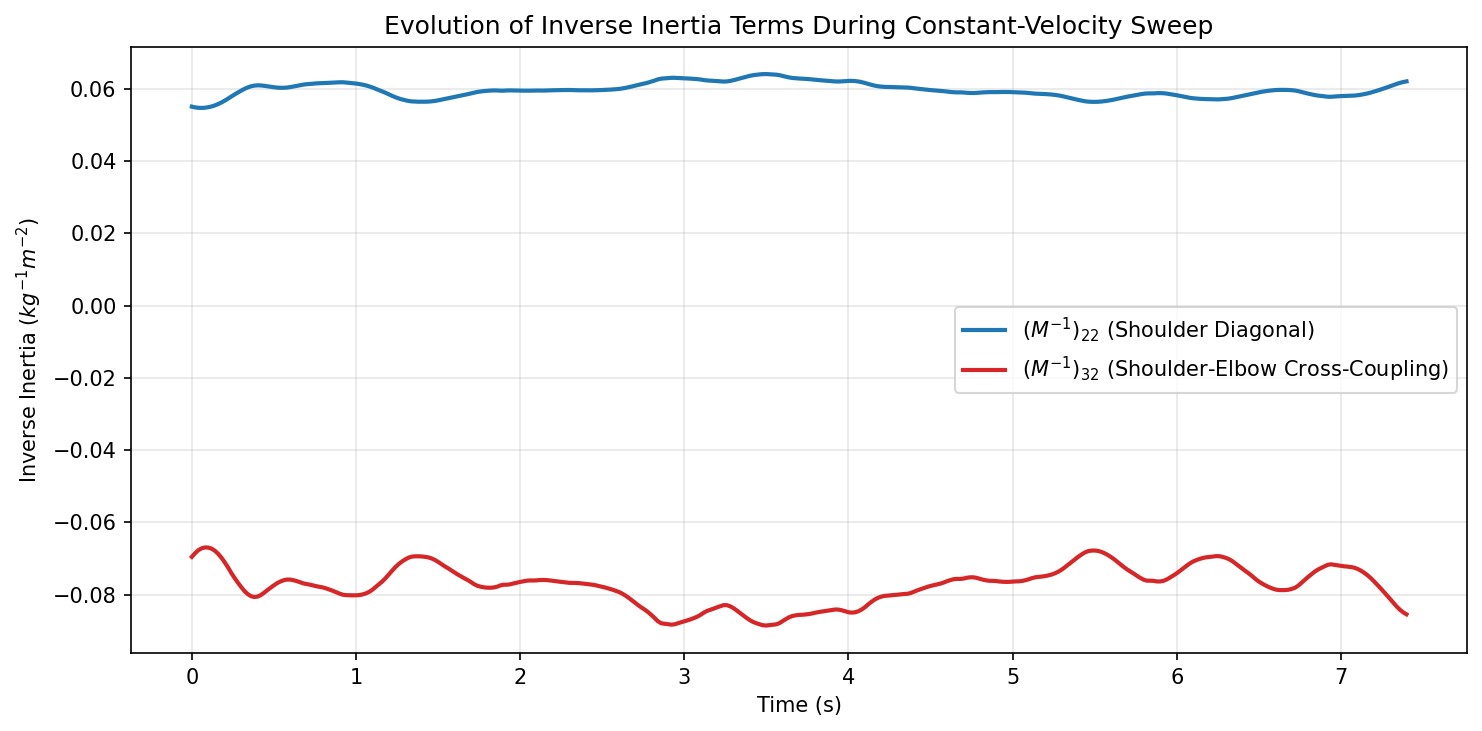
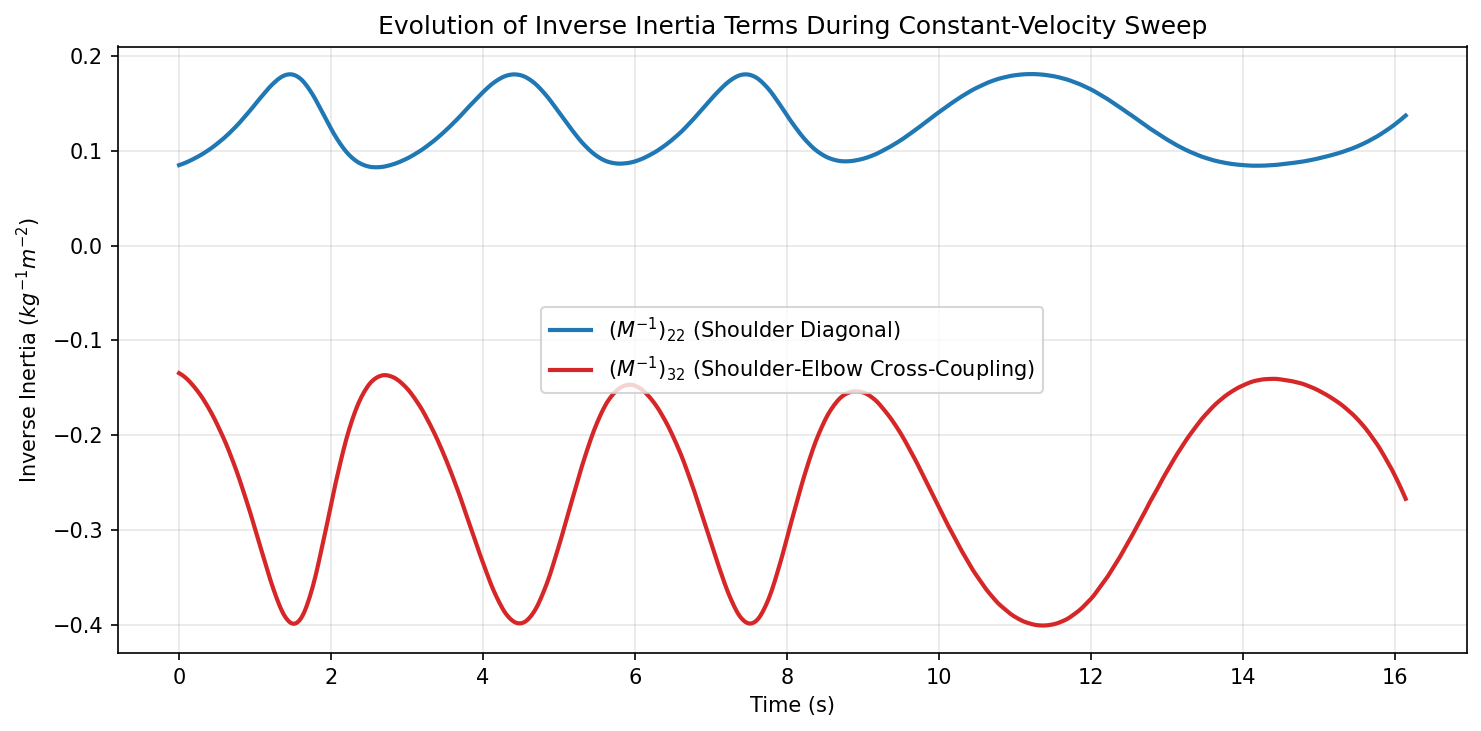
updated controller.py strcture

diff --git a/controller.py b/controller.py
@@ -7,83 +7,80 @@ class NMPCController:
         self.dt = dt
         self.N = horizon
         self.kin = KinematicsEngine()
+        
+        # Define the permanent optimization problem graph ONCE for maximum speed
         self.opti = ca.Opti()
-        # Initialize the optimization variables
+        
+        # Decision variables over the horizon
         self.X = self.opti.variable(8, self.N + 1)
         self.U = self.opti.variable(4, self.N)
         
-    def solve(self, q_curr, dq_curr, target_pos):
-        # Reset and clear previous constraints
-        X = self.opti.variable(8, self.N + 1)
-        U = self.opti.variable(4, self.N)
+        # Declare explicit PARAMETERS that update via numerical value-swapping
+        self.p_q_curr = self.opti.parameter(4)
+        self.p_dq_curr = self.opti.parameter(4)
+        self.p_target_pos = self.opti.parameter(3)
+        self.p_kstiff_est = self.opti.parameter()  # Scalar stiffness parameter
         
-        # FIX 1: Increase safe radius! 
-        # (0.05 EE radius + 0.04 Obstacle radius + 0.21 safety buffer)
-        safe_radius_sq = 0.3**2
-        
+        self._build_optimization_graph()
+
+    def _build_optimization_graph(self):
         cost = 0
-    
-
-          # WARM START: Provide a reasonable initial guess so the solver doesn't start at absolute zero!
-        self.opti.set_initial(X, ca.repmat(ca.vertcat(q_curr, dq_curr), 1, self.N + 1))
-    
-
+        q_home = ca.vertcat(0.0, 0.0, 0.0, 0.0)
         
-        q_home = ca.vertcat(0.0, 0,0,0)
-
-        current_ee_pos = self.kin.forward_kinematics_sym(q_curr)
-        dist_to_target = ca.norm_2(current_ee_pos - target_pos)
+        # Initial state constraint
+        self.opti.subject_to(self.X[:, 0] == ca.vertcat(self.p_q_curr, self.p_dq_curr))
         
-        max_dist = 2.0  
-        dist_ratio = ca.fmax(0.0, ca.fmin(1.0, dist_to_target / max_dist))
-        
-        distal_penalty = 0.05 + (0.95 * dist_ratio)
-        shoulder_penalty = 0.5 - (0.49 * dist_ratio)
-        W_posture = ca.diag(ca.vertcat(0.01, shoulder_penalty, distal_penalty, distal_penalty))
-        
-        # --- 1. THE RUNNING COST & CONSTRAINTS (The Journey) ---
         for k in range(self.N):
-            ee_pos = self.kin.forward_kinematics_sym(X[:4, k])
+            ee_pos = self.kin.forward_kinematics_sym(self.X[:4, k])
             
-            cost += ca.sumsqr(ee_pos - target_pos) * 500.0
-            cost += ca.sumsqr(U[:, k]) * 0.2
-
-            cost += ca.sumsqr(X[4:, k]) * 0.2
-
+            # 1. Cartesian Tracking Cost
+            cost += ca.sumsqr(ee_pos - self.p_target_pos) * 500.0
             
-            # Postural Objective
-            posture_error = X[:4, k] - q_home
+            # 2. Control Effort Cost with Stiffness Cost-Scaling
+            stiffness_ratio = ca.fmax(self.p_kstiff_est / 50000.0, 0.05)
+            cost += ca.sumsqr(self.U[:, k] / stiffness_ratio) * 0.2
+            cost += ca.sumsqr(self.X[4:, k]) * 0.2
+            
+            # 3. Dynamic Posture Weighting
+            dist_to_target = ca.norm_2(ee_pos - self.p_target_pos)
+            max_dist = 2.0
+            dist_ratio = ca.fmax(0.0, ca.fmin(1.0, dist_to_target / max_dist))
+            distal_penalty = 0.05 + (0.95 * dist_ratio)
+            shoulder_penalty = 0.5 - (0.49 * dist_ratio)
+            W_posture = ca.diag(ca.vertcat(0.01, shoulder_penalty, distal_penalty, distal_penalty))
+            
+            posture_error = self.X[:4, k] - q_home
             cost += ca.mtimes([posture_error.T, W_posture, posture_error])
             
-            # Explicit Euler Dynamics
-            q_next = X[:4, k] + X[4:, k] * self.dt
-            dq_next = X[4:, k] + U[:, k] * self.dt
-            self.opti.subject_to(X[:, k+1] == ca.vertcat(q_next, dq_next))
+            # 4. Smooth Rigid-Body Integration
+            q_next = self.X[:4, k] + self.X[4:, k] * self.dt
+            dq_next = self.X[4:, k] + self.U[:, k] * self.dt
             
-            self.opti.subject_to(self.opti.bounded(-3.14, X[:4, k], 3.14))
+            self.opti.subject_to(self.X[:, k+1] == ca.vertcat(q_next, dq_next))
+            self.opti.subject_to(self.opti.bounded(-3.14, self.X[:4, k], 3.14))
             
-        # --- 2. THE TERMINAL COST (The Strategic Goal) ---
-        ee_final_pos = self.kin.forward_kinematics_sym(X[:4, self.N])
-        cost += ca.sumsqr(ee_final_pos - target_pos) * 1000.0 
-            
+        # Terminal Cost
+        ee_final_pos = self.kin.forward_kinematics_sym(self.X[:4, self.N])
+        cost += ca.sumsqr(ee_final_pos - self.p_target_pos) * 1000.0 
+        
         self.opti.minimize(cost)
-        self.opti.subject_to(X[:, 0] == ca.vertcat(q_curr, dq_curr))
-            
-        # Solver setup
         opts = {'ipopt.print_level': 0, 'print_time': 0}
         self.opti.solver('ipopt', opts)
+
+    def solve(self, q_curr, dq_curr, target_pos, kstiff_est=50000.0):
+        # Update parameter values instantly without re-allocating the graph
+        self.opti.set_value(self.p_q_curr, q_curr)
+        self.opti.set_value(self.p_dq_curr, dq_curr)
+        self.opti.set_value(self.p_target_pos, target_pos)
+        self.opti.set_value(self.p_kstiff_est, kstiff_est)
+        
+        # Warm start initialization
+        self.opti.set_initial(self.X, ca.repmat(ca.vertcat(q_curr, dq_curr), 1, self.N + 1))
         
         try:
             sol = self.opti.solve()
-            return sol.value(U[:, 0])
+            return sol.value(self.U[:, 0])
         except Exception as e:
-            print("\n=========================================")
-            print("🚨 SOLVER CRASHED! ANALYZING VIOLATIONS...")
-            print("=========================================")
-            # This CasADi debug function prints exactly which constraints failed
-            # The '1e-5' means it will only show violations larger than 0.00001
-            self.opti.debug.show_infeasibilities(1e-5)
-            print("=========================================\n")
-            
-            # Re-raise the error so main.py can catch it and apply 0 acceleration
-            raise e
+            q_error = q_home_err = -q_curr
+            fallback_u = 20.0 * q_error - 5.0 * dq_curr
+            return fallback_u